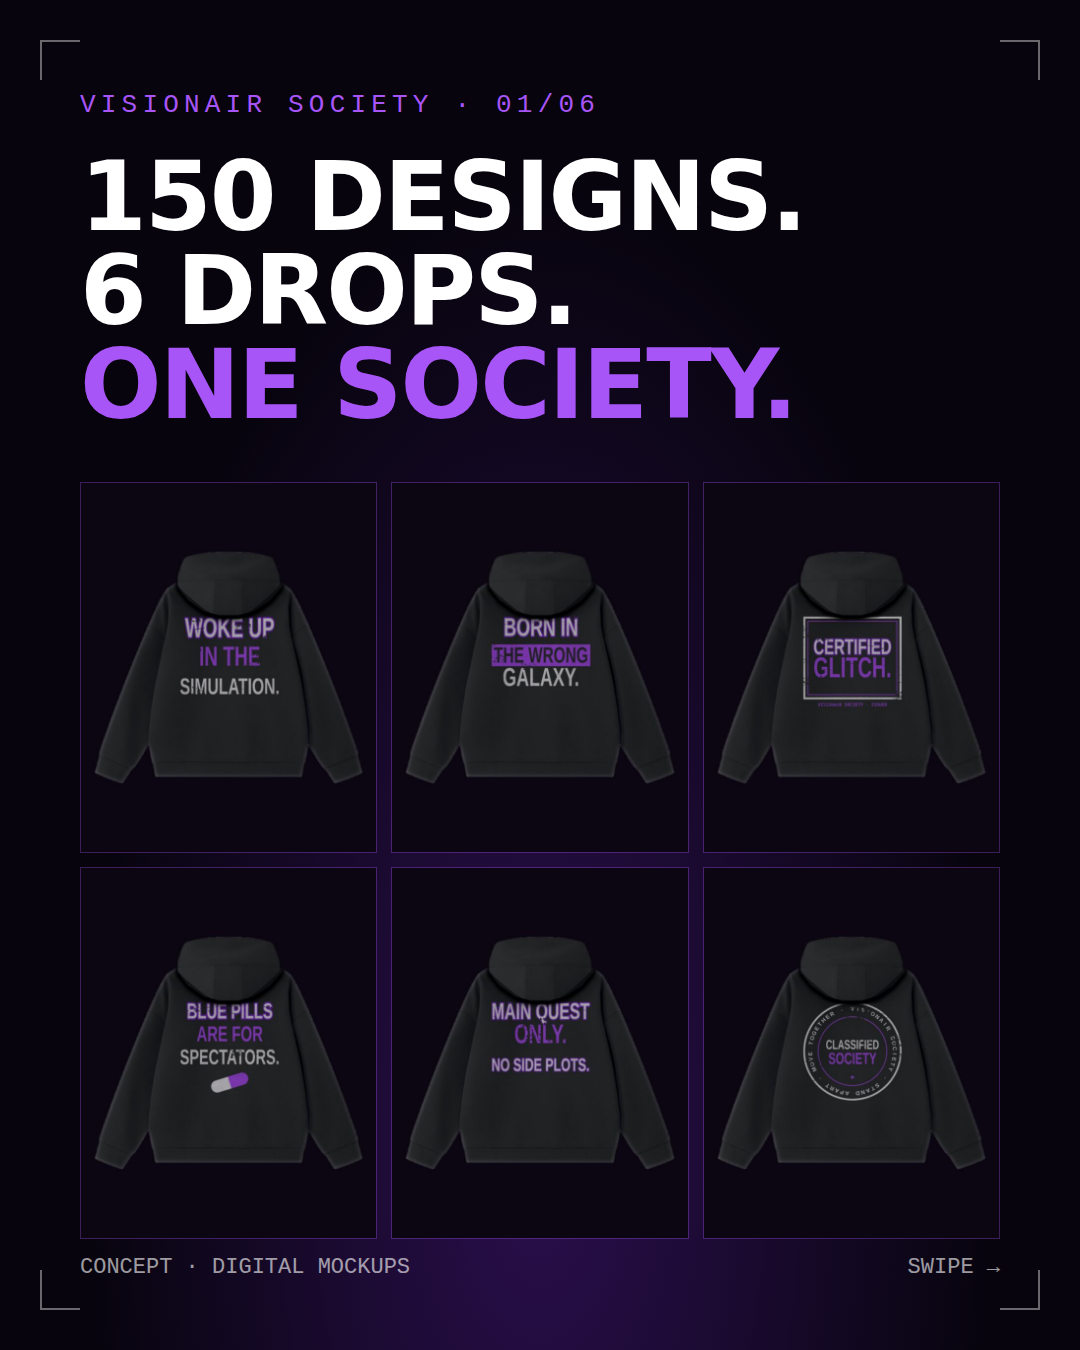
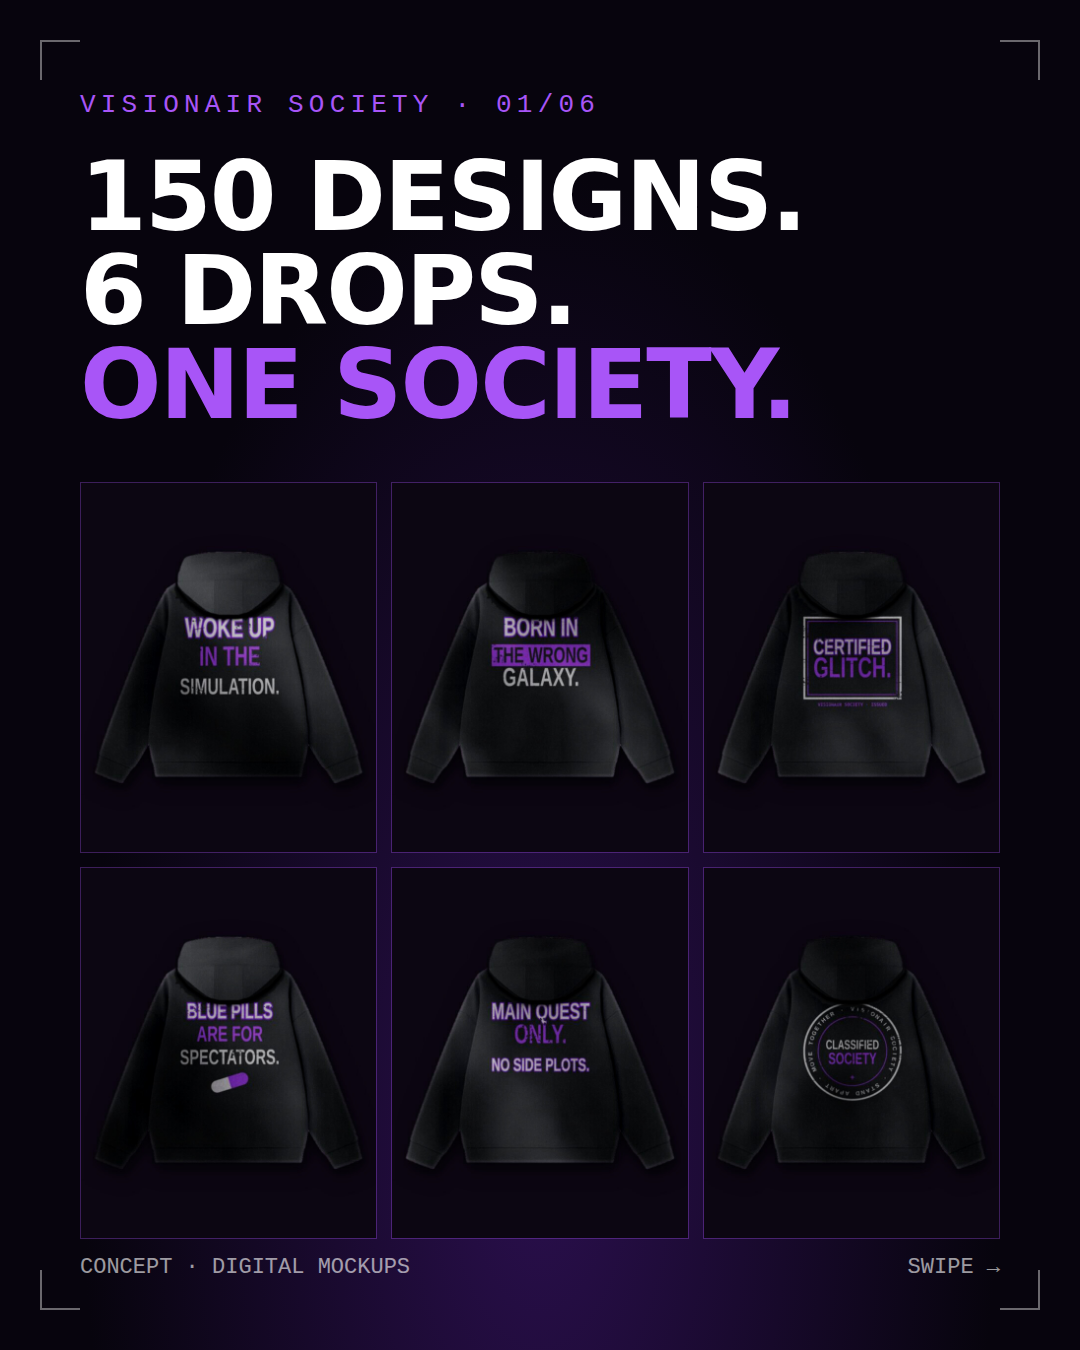
Les 042: realistischere hoodie-mockups (realer.sh) in carrousel/ad
Claude-Session: https://claude.ai/code/session_01VxmfntShTqejzUpaLZDbQH

diff --git a/studentenpakket-v16/mijn-project/content/batch/slides-bron.html b/studentenpakket-v16/mijn-project/content/batch/slides-bron.html
@@ -16,10 +16,10 @@ p{font-size:34px;line-height:1.4;opacity:.85;margin-top:30px}
 .tag{position:absolute;top:96px;right:80px;font-size:20px;opacity:.55}
 ul{list-style:none;margin-top:40px}li{font-size:38px;padding:22px 0;border-bottom:1px solid #ffffff22}li::before{content:"> ";color:#a855f7}
 </style></head><body>
-<div class="s" id="s1"><i class="c c1"></i><i class="c c2"></i><i class="c c3"></i><i class="c c4"></i><div class="k">VISIONAIR SOCIETY · 01/06</div><h1>150 DESIGNS.<br>6 DROPS.<br><em>ONE SOCIETY.</em></h1><div class="grid"><img src="file:///home/user/187n-codex-hermes-masterclass/studentenpakket-v16/mijn-project/storefront/assets/img/collections/vs-001.jpg"><img src="file:///home/user/187n-codex-hermes-masterclass/studentenpakket-v16/mijn-project/storefront/assets/img/collections/vs-002.jpg"><img src="file:///home/user/187n-codex-hermes-masterclass/studentenpakket-v16/mijn-project/storefront/assets/img/collections/vs-009.jpg"><img src="file:///home/user/187n-codex-hermes-masterclass/studentenpakket-v16/mijn-project/storefront/assets/img/collections/vs-012.jpg"><img src="file:///home/user/187n-codex-hermes-masterclass/studentenpakket-v16/mijn-project/storefront/assets/img/collections/vs-006.jpg"><img src="file:///home/user/187n-codex-hermes-masterclass/studentenpakket-v16/mijn-project/storefront/assets/img/collections/vs-053.jpg"></div><div class="f"><span>CONCEPT · DIGITAL MOCKUPS</span><span>SWIPE →</span></div></div>
+<div class="s" id="s1"><i class="c c1"></i><i class="c c2"></i><i class="c c3"></i><i class="c c4"></i><div class="k">VISIONAIR SOCIETY · 01/06</div><h1>150 DESIGNS.<br>6 DROPS.<br><em>ONE SOCIETY.</em></h1><div class="grid"><img src="file:///home/user/187n-codex-hermes-masterclass/studentenpakket-v16/outputs/5.5/2026-10-02-01/content/batch/real/vs-001.jpg"><img src="file:///home/user/187n-codex-hermes-masterclass/studentenpakket-v16/outputs/5.5/2026-10-02-01/content/batch/real/vs-002.jpg"><img src="file:///home/user/187n-codex-hermes-masterclass/studentenpakket-v16/outputs/5.5/2026-10-02-01/content/batch/real/vs-009.jpg"><img src="file:///home/user/187n-codex-hermes-masterclass/studentenpakket-v16/outputs/5.5/2026-10-02-01/content/batch/real/vs-012.jpg"><img src="file:///home/user/187n-codex-hermes-masterclass/studentenpakket-v16/outputs/5.5/2026-10-02-01/content/batch/real/vs-006.jpg"><img src="file:///home/user/187n-codex-hermes-masterclass/studentenpakket-v16/outputs/5.5/2026-10-02-01/content/batch/real/vs-053.jpg"></div><div class="f"><span>CONCEPT · DIGITAL MOCKUPS</span><span>SWIPE →</span></div></div>
 <div class="s" id="s2"><i class="c c1"></i><i class="c c2"></i><i class="c c3"></i><i class="c c4"></i><div class="k">02/06</div><h1 style="margin-top:300px">MOST<br>STREETWEAR<br>SAYS <em>NOTHING.</em></h1><p>Just a logo.</p></div>
-<div class="s" id="s3"><i class="c c1"></i><i class="c c2"></i><i class="c c3"></i><i class="c c4"></i><div class="k">03/06 · DESIGN Nº 010</div><img class="big" src="file:///home/user/187n-codex-hermes-masterclass/studentenpakket-v16/mijn-project/storefront/assets/img/founding-member-hoodie-back.jpg"><p>Every Visionair design is a <b style="color:#a855f7">statement on your back.</b></p><div class="f"><span>CONCEPT · DIGITAL MOCKUP</span><span></span></div></div>
-<div class="s" id="s4"><i class="c c1"></i><i class="c c2"></i><i class="c c3"></i><i class="c c4"></i><div class="k">04/06 · THE DROPS</div><div class="tiles"><div><img src="file:///home/user/187n-codex-hermes-masterclass/studentenpakket-v16/mijn-project/storefront/assets/img/collections/vs-001.jpg"><span>SIMULATION</span></div><div><img src="file:///home/user/187n-codex-hermes-masterclass/studentenpakket-v16/mijn-project/storefront/assets/img/collections/vs-002.jpg"><span>ABDUCTED</span></div><div><img src="file:///home/user/187n-codex-hermes-masterclass/studentenpakket-v16/mijn-project/storefront/assets/img/collections/vs-009.jpg"><span>CLASSIFIED</span></div><div><img src="file:///home/user/187n-codex-hermes-masterclass/studentenpakket-v16/mijn-project/storefront/assets/img/collections/vs-012.jpg"><span>AWAKE</span></div><div><img src="file:///home/user/187n-codex-hermes-masterclass/studentenpakket-v16/mijn-project/storefront/assets/img/collections/vs-006.jpg"><span>BUILD MODE</span></div><div><img src="file:///home/user/187n-codex-hermes-masterclass/studentenpakket-v16/mijn-project/storefront/assets/img/collections/vs-053.jpg"><span>THE SOCIETY</span></div></div><div class="f"><span>CONCEPT · DIGITAL MOCKUPS</span><span>25 DESIGNS PER DROP</span></div></div>
+<div class="s" id="s3"><i class="c c1"></i><i class="c c2"></i><i class="c c3"></i><i class="c c4"></i><div class="k">03/06 · DESIGN Nº 010</div><img class="big" src="file:///home/user/187n-codex-hermes-masterclass/studentenpakket-v16/outputs/5.5/2026-10-02-01/content/batch/real/founding-member-hoodie-back.jpg"><p>Every Visionair design is a <b style="color:#a855f7">statement on your back.</b></p><div class="f"><span>CONCEPT · DIGITAL MOCKUP</span><span></span></div></div>
+<div class="s" id="s4"><i class="c c1"></i><i class="c c2"></i><i class="c c3"></i><i class="c c4"></i><div class="k">04/06 · THE DROPS</div><div class="tiles"><div><img src="file:///home/user/187n-codex-hermes-masterclass/studentenpakket-v16/outputs/5.5/2026-10-02-01/content/batch/real/vs-001.jpg"><span>SIMULATION</span></div><div><img src="file:///home/user/187n-codex-hermes-masterclass/studentenpakket-v16/outputs/5.5/2026-10-02-01/content/batch/real/vs-002.jpg"><span>ABDUCTED</span></div><div><img src="file:///home/user/187n-codex-hermes-masterclass/studentenpakket-v16/outputs/5.5/2026-10-02-01/content/batch/real/vs-009.jpg"><span>CLASSIFIED</span></div><div><img src="file:///home/user/187n-codex-hermes-masterclass/studentenpakket-v16/outputs/5.5/2026-10-02-01/content/batch/real/vs-012.jpg"><span>AWAKE</span></div><div><img src="file:///home/user/187n-codex-hermes-masterclass/studentenpakket-v16/outputs/5.5/2026-10-02-01/content/batch/real/vs-006.jpg"><span>BUILD MODE</span></div><div><img src="file:///home/user/187n-codex-hermes-masterclass/studentenpakket-v16/outputs/5.5/2026-10-02-01/content/batch/real/vs-053.jpg"><span>THE SOCIETY</span></div></div><div class="f"><span>CONCEPT · DIGITAL MOCKUPS</span><span>25 DESIGNS PER DROP</span></div></div>
 <div class="s" id="s5"><i class="c c1"></i><i class="c c2"></i><i class="c c3"></i><i class="c c4"></i><div class="k">05/06 · THE HOODIE</div><h1 style="font-size:80px">YOUR NUMBER IS YOUR <em>MEMBERSHIP.</em></h1><ul><li>Black · 500 gsm</li><li>Boxy oversized · S–2XL</li><li>Design on the back</li><li>Founding Member access</li></ul></div>
 <div class="s" id="s6"><i class="c c1"></i><i class="c c2"></i><i class="c c3"></i><i class="c c4"></i><div class="k">06/06</div><img class="logo" src="file:///home/user/187n-codex-hermes-masterclass/studentenpakket-v16/mijn-project/storefront/assets/img/logo-white.png"><h1 style="text-align:center;font-size:84px">POP-UP IN EUROPE <em>FIRST.</em></h1><p style="text-align:center">Online 7 days later.<br>Follow to get the date.</p><div style="text-align:center"><span class="cta">> JOIN THE SOCIETY</span></div></div>
 <div class="s" id="a3"><i class="c c1"></i><i class="c c2"></i><i class="c c3"></i><i class="c c4"></i><div class="k">FOUNDING MEMBER HOODIE</div><h1 style="font-size:84px">WHAT DO YOU<br>ACTUALLY GET<br>FOR <em>€64,95?</em></h1><ul><li>Heavyweight 500 gsm fleece</li><li>Boxy oversized fit</li><li>Design on the back, VS logo left chest</li><li>Your own member number</li><li>Founding Member access</li></ul><div><span class="cta">> JOIN THE SOCIETY</span></div><div class="tag">CONCEPT</div></div>
